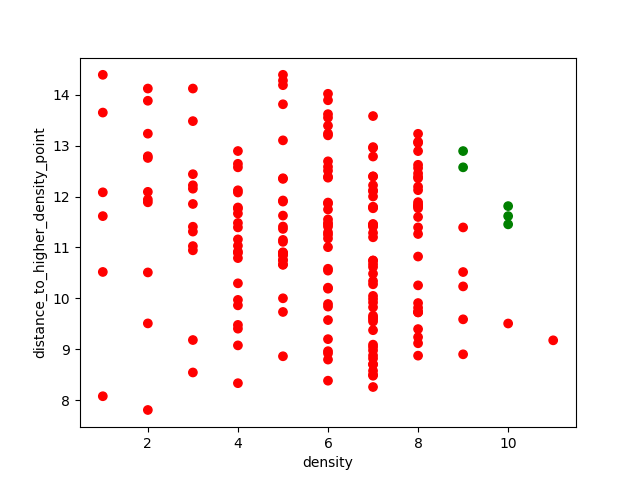
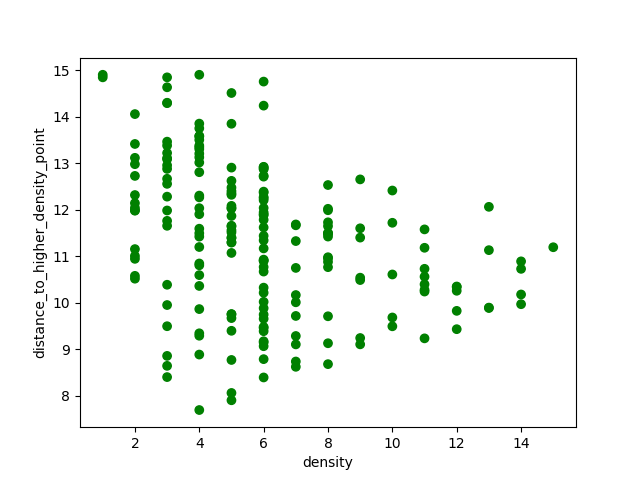
Assigning clusters to points

diff --git a/DataMining-Project/DataMining_Project.py b/DataMining-Project/DataMining_Project.py
@@ -1,5 +1,7 @@
-#!/usr/bin/env python3.6
+#!/usr/bin/env python2
 # coding UTF-8
+
+from __future__ import division, print_function
 
 import matplotlib
 matplotlib.use('Agg')
@@ -37,8 +39,11 @@ def generate_list_of_random_points(n, limit):
     for counter in xrange(n):
         x = round(random.uniform(0, limit), 2)
         y = round(random.uniform(0, limit), 2)
-        point = {"id": counter+1, "x": x, "y": y, "density": None,
-                 "distance_to_higher_density_point": None, "cluster": None}
+        point = {"id": counter+1, "x": x, "y": y,
+                 "density": None,
+                 "distance_to_higher_density_point": None,
+                 "id_of_point_with_higher_density": None,
+                 "cluster": None}
         list_of_random_points.append(point)
     return list_of_random_points
 
@@ -69,6 +74,7 @@ def set_distance_to_higher_density_point(point_i, points):
 
         if distance_to(point_i, point_j) < point_i["distance_to_higher_density_point"]:
             point_i["distance_to_higher_density_point"] = distance_to(point_i, point_j)
+            point_i["id_of_point_with_higher_density"] = point_j["id"]
 
     if point_i["distance_to_higher_density_point"] == float("inf"):
        point_i["distance_to_higher_density_point"] = 0
@@ -110,7 +116,7 @@ def plot_of_x_and_y(points, file_name):
 
 
 def plot_of_density_and_distance_to_higher_density_point(points, file_name):
-    points = [point for point in points.toLocalIterator()]
+    points =  points.collect()
     x = [point["density"] for point in points]
     y = [point["distance_to_higher_density_point"] for point in points]
     c = ['green' if point["cluster"] is not None else 'red' for point in points]
@@ -120,32 +126,73 @@ def plot_of_density_and_distance_to_higher_density_point(points, file_name):
     ax.set_ylabel('distance_to_higher_density_point')
     fig.savefig(file_name)
 
+def plot_clusters(points, clusters_color, file_name):
+    def get_color(point):
+        if point["cluster"] == 0: return 'blue'
+        if point["cluster"] == 1: return 'green'
+        if point["cluster"] == 2: return 'red'
+        if point["cluster"] == 3: return 'yellow'
+        if point["cluster"] == 4: return 'black'
+        if point["cluster"] == 5: return 'purple'
+        if point["cluster"] == 6: return 'cyan'
+        if point["cluster"] == 7: return 'lime'
+
+    x = [point["x"] for point in points.collect()]
+    y = [point["y"] for point in points.collect()]
+    c = [get_color(point) for point in points.collect()]
+    fig, ax = matplotlib.pyplot.subplots()
+    ax.scatter(x, y, color=c)
+    ax.set_xlabel('x')
+    ax.set_ylabel('y')
+    fig.savefig(file_name)
 
 def choose_centers_of_clusters(points, n):
-    
-    def set_cluster(point, centers):
+    # TODO: try to write function, which automatically chooses number of centers
+    def set_center(point, centers):
         for i, center in enumerate(centers):
             if point["id"] == center["id"]:
                     point["cluster"] = i
+
         return point
+
+    def set_cluster(point, all_points):
+        if point["cluster"] != None or point["id_of_point_with_higher_density"] == None: return point
+
+        ref_point = [ p for p in all_points 
+                            if p["id"] == point["id_of_point_with_higher_density"] ][0]
+        point["cluster"] = ref_point["cluster"]
+
+        return point
+
     
     sorted_points = points.sortBy(
         lambda p: -(p["density"] * p["distance_to_higher_density_point"]))
     centers = sorted_points.take(n)
     points = points.map(
-        lambda point: set_cluster(point, centers))
+        lambda point: set_center(point, centers))
+
+    all_points = points.collect()
+    while None in [ point["cluster"] for point in points.collect()]:
+        print("Assigning clusters")
+        points = points.map(lambda point: set_cluster(point, all_points))
+        all_points = points.collect()
+
     return points
-
-
 
 if __name__ == "__main__":
     conf = SparkConf().setAppName('DataMining_Project')
     sc = SparkContext(conf=conf)
 
+    clusters = 7
+
     points = generate_and_calculate(sc, n=200, limit=10, cutoff_distance=1)
-    points = choose_centers_of_clusters(points, n=5)  # TODO: try to write function, which automatically chooses number of centers
+    points = choose_centers_of_clusters(points, clusters)
+
+    plot_clusters(points, ['green', 'blue', 'red', 'black', 'yellow'], 'clusters.png')
+    
     plot_of_density_and_distance_to_higher_density_point(points, 'density.png')
-    print(points.collect())
+    for point in points.collect():
+        print(point)
 
     print("\n\nDataMining_Project!")
 
